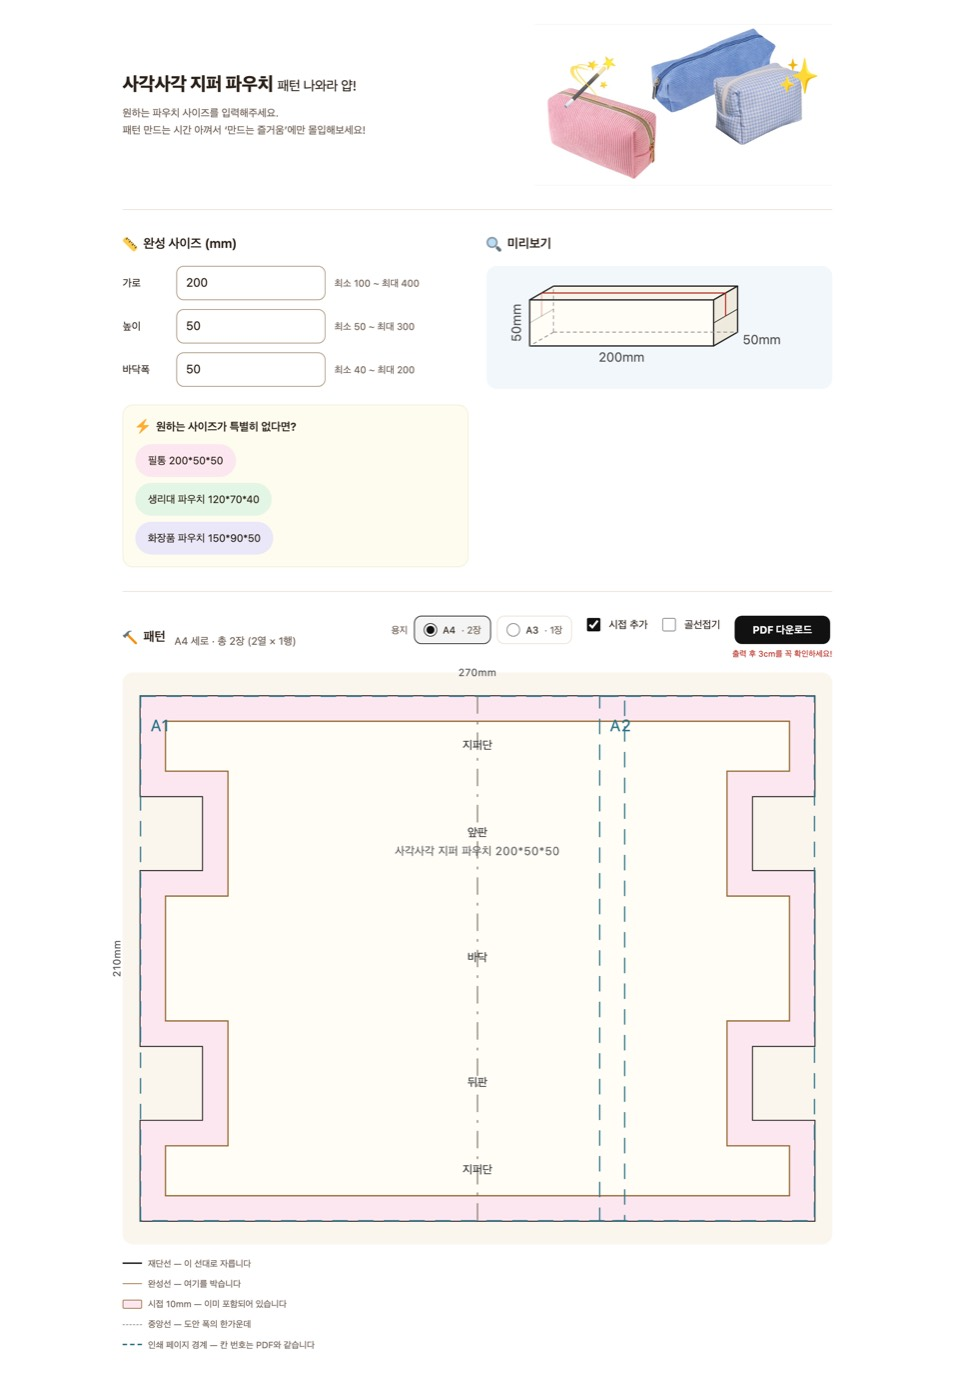
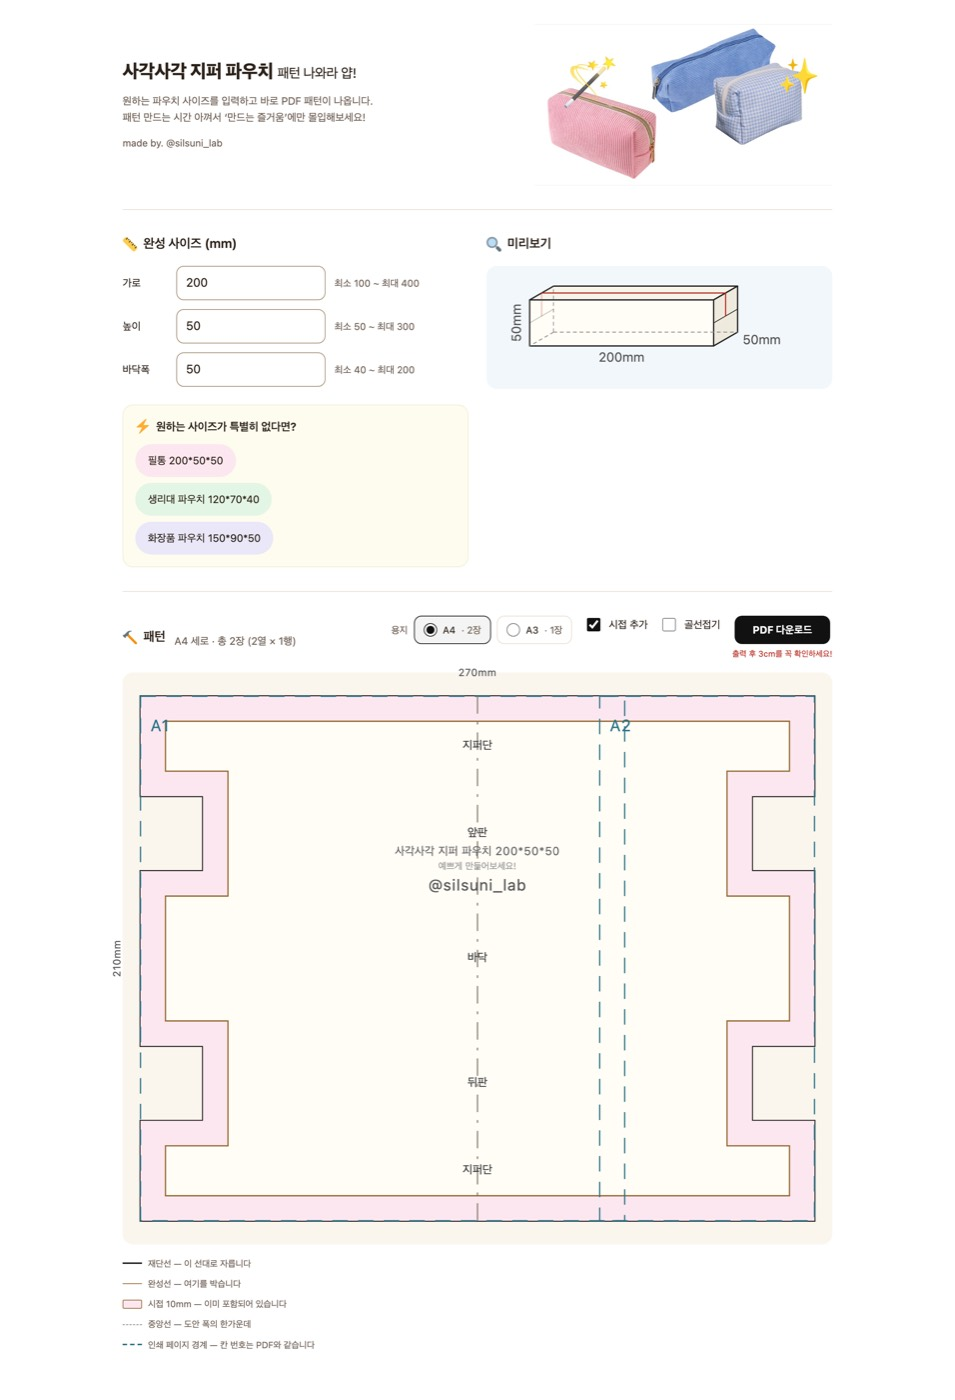
머리말 문구 고치고 만든 이 한 줄 넣기
첫 문장을 "원하는 파우치 사이즈를 입력해주세요"에서 "입력하고 바로
PDF 패턴이 나옵니다"로 바꿨다. 무엇을 해 달라는 말보다 무엇을 받게
되는지가 먼저 오는 편이 낫다.

그 아래 'made by. @silsuni_lab'을 별도 줄로 뒀다. 설명문과 같은
크기로 두면 문장의 일부처럼 읽혀서 한 급 작게 하고 문단도 나눴다.

스크린샷도 다시 찍었다. 화면을 바꾸면 README 그림이 같이 낡는다.
지난번에도 사흘 뒤에야 알아챘던 자리다.

Changed region(s): [[0.1215, 0.0307, 0.3948, 0.1229], [0.4555, 0.6143, 0.5466, 0.645]]

diff --git a/index.html b/index.html
@@ -11,9 +11,10 @@
         <div class="head-text">
           <h1><strong>사각사각 지퍼 파우치</strong> <span class="head-tail">패턴 나와라 얍!</span></h1>
           <p class="sub">
-            원하는 파우치 사이즈를 입력해주세요.<br />
+            원하는 파우치 사이즈를 입력하고 바로 PDF 패턴이 나옵니다.<br />
             패턴 만드는 시간 아껴서 &lsquo;만드는 즐거움&rsquo;에만 몰입해보세요!
           </p>
+          <p class="made-by">made by. @silsuni_lab</p>
         </div>
         <img
           class="head-photo"

diff --git a/src/style.css b/src/style.css
@@ -108,6 +108,13 @@ body {
   max-width: 60ch;
 }
 
+/* 만든 이. 설명문과 같은 크기로 두면 문장의 일부처럼 읽힌다. */
+.made-by {
+  margin: var(--space-3) 0 0;
+  color: var(--muted);
+  font-size: 13px;
+}
+
 /* 섹션 제목 — 아이콘과 글자를 한 줄에 */
 .section {
   display: flex;
